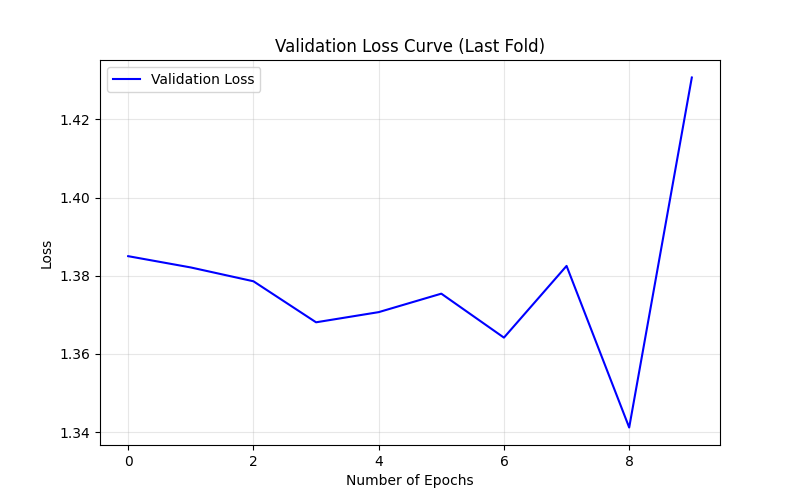
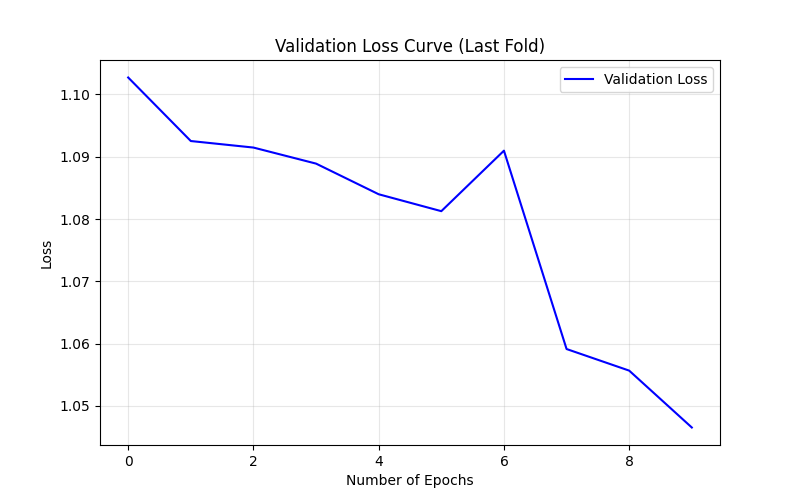
32 filters

diff --git a/src/cnn.py b/src/cnn.py
@@ -261,19 +261,19 @@ def build_tutorial_cnn(input_shape, num_classes):
     """
     model = Sequential([
         # First convolutional block: Extract basic features
-        Conv2D(16, (3, 3), activation='relu', input_shape=input_shape),
+        Conv2D(32, (3, 3), activation='relu', input_shape=input_shape),
         MaxPool2D((2, 2)),
         
         # Second convolutional block: Extract more complex features
-        Conv2D(16, (3, 3), activation='relu'),
+        Conv2D(32, (3, 3), activation='relu'),
         MaxPool2D((2, 2)),
         
         # Third convolutional block: Extract high-level features
-        Conv2D(16, (3, 3), activation='relu'),
+        Conv2D(32, (3, 3), activation='relu'),
         MaxPool2D((2, 2)),
         
         # Fourth convolutional block: Final feature extraction
-        Conv2D(16, (3, 3), activation='relu'),
+        Conv2D(32, (3, 3), activation='relu'),
         MaxPool2D((2, 2)),
         
         # Classification head
